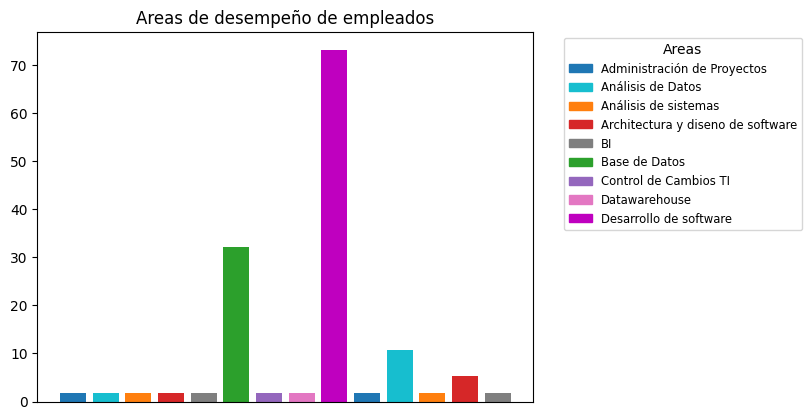
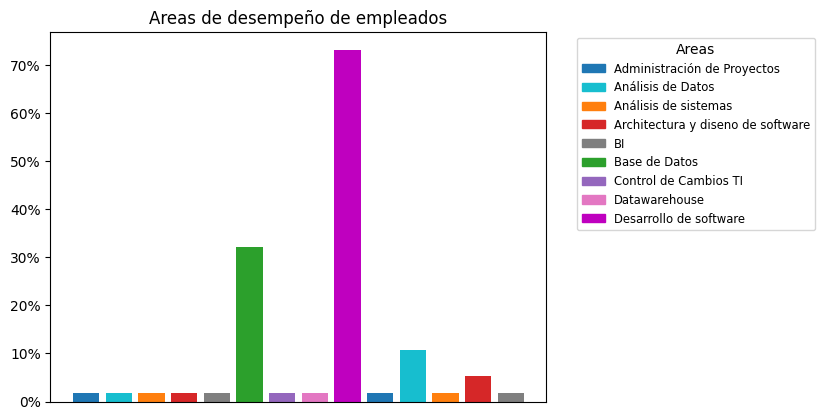
Gestores de bases de datos

diff --git a/make_graphics.py b/make_graphics.py
@@ -83,6 +83,13 @@ operaciones_en_bases = []
 administracion_bases = []
 """
 
+# Habilidades tecnicas necesarias
+habilidades_necesarias = []
+
+
+# Gestores de bases de datos
+gestores_bd = []
+
 # Empleados con certificados
 empleados_crt = []
 certificados = []
@@ -161,6 +168,12 @@ for individuo in empleados_de_bancos:
 
     # Areas de desempeño
     areas_de_desempenio = areas_de_desempenio + individuo["¿En qué área se desempeña o desempeñó en el sector bancario?\xa0\xa0(Puede escoger más de una opción)"].split(";")
+
+    #Habilidades requeridas
+    habilidades_necesarias = habilidades_necesarias + individuo["¿Qué habilidades o requisitos necesitó para comenzar a laborar en una entidad bancaria?\xa0(Puede escoger más de una opción)"].split(";")
+
+    #Gestores de bases de datos
+    gestores_bd = gestores_bd + individuo["Según su experiencia, ¿qué gestores de base de datos debe conocer un ingeniero en sistemas para laborar en una entidad bancaria? (Puede escoger más de una opción)"].split(";")
 
 
 """
@@ -573,6 +586,7 @@ cmap = dict(zip(totales_df['Totales_adq'].tolist(), ['tab:blue', 'tab:cyan', 'ta
 
 patches = [Patch(color=v, label=k) for k, v in cmap.items()]
 
+ax.yaxis.set_major_formatter(mtick.PercentFormatter())
 plt.legend(labels=totales_df['Totales_adq'].tolist(), handles=patches, title='Adquisición', bbox_to_anchor=(1.05, 1), loc='upper left', prop=fontP)
 
 plt.savefig("./fig/totales_adq.png", dpi=None, facecolor='w', edgecolor='w',
@@ -614,6 +628,7 @@ cmap = dict(zip(certificados_df['Certificados'].tolist(), ['tab:blue', 'tab:cyan
 
 patches = [Patch(color=v, label=k) for k, v in cmap.items()]
 
+ax.yaxis.set_major_formatter(mtick.PercentFormatter())
 plt.legend(labels=certificados_df['Certificados'].tolist(), handles=patches, title='Certificados', bbox_to_anchor=(1.05, 1), loc='upper left', prop=fontP)
 
 plt.savefig("./fig/certificados.png", dpi=None, facecolor='w', edgecolor='w',
@@ -655,9 +670,93 @@ cmap = dict(zip(areas_df['Areas'].tolist(), ['tab:blue', 'tab:cyan', 'tab:orange
 
 patches = [Patch(color=v, label=k) for k, v in cmap.items()]
 
+ax.yaxis.set_major_formatter(mtick.PercentFormatter())
 plt.legend(labels=areas_df['Areas'].tolist(), handles=patches, title='Areas', bbox_to_anchor=(1.05, 1), loc='upper left', prop=fontP)
 
 plt.savefig("./fig/areas_de_desempenio.png", dpi=None, facecolor='w', edgecolor='w',
+        orientation='portrait', format=None,
+        transparent=False, bbox_inches='tight', pad_inches=0.1,
+        metadata=None)
+plt.clf()
+
+############ Habilidades necesarias ############
+habilidades_necesarias = np.array(habilidades_necesarias)
+
+habilidades_set, habilidades_count = np.unique(habilidades_necesarias, return_counts=True)
+
+hab_pro = (habilidades_count / len(empleados_de_bancos)) * 100
+
+hab_df = pd.DataFrame({
+    'Habilidades': habilidades_set,
+    'Porcentaje': hab_pro
+    })
+hab_df = hab_df.drop(labels=0, axis=0)
+
+fig, ax = plt.subplots()
+ax.bar('Habilidades', 'Porcentaje', data=hab_df, color=['tab:blue', 'tab:cyan', 'tab:orange', 'tab:red', 'tab:gray', 'tab:green', 'tab:purple', 'tab:pink', 'm', 'tab:olive'])
+
+plt.tick_params(
+    axis='x',        
+    which='both',   
+    bottom=False,  
+    top=False,    
+    labelbottom=False)
+
+plt.title("Habilidades necesarias para trabajar en el sector")
+
+fontP = FontProperties()
+fontP.set_size('small')
+
+cmap = dict(zip(areas_df['Areas'].tolist(), ['tab:blue', 'tab:cyan', 'tab:orange', 'tab:red', 'tab:gray', 'tab:green', 'tab:purple', 'tab:pink', 'm', 'tab:olive']))
+
+patches = [Patch(color=v, label=k) for k, v in cmap.items()]
+
+ax.yaxis.set_major_formatter(mtick.PercentFormatter())
+plt.legend(labels=hab_df['Habilidades'].tolist(), handles=patches, title='Habilidades', bbox_to_anchor=(1.05, 1), loc='upper left', prop=fontP)
+
+plt.savefig("./fig/habilidades_necesarias.png", dpi=None, facecolor='w', edgecolor='w',
+        orientation='portrait', format=None,
+        transparent=False, bbox_inches='tight', pad_inches=0.1,
+        metadata=None)
+plt.clf()
+
+
+############ Gestores de bases de datos usados ############
+gestores_bd = np.array(gestores_bd)
+
+gestores_set, gestores_count = np.unique(gestores_bd, return_counts=True)
+
+gestores_pro = (gestores_count / len(empleados_de_bancos)) * 100
+
+gestores_df = pd.DataFrame({
+    'Gestores': gestores_set,
+    'Porcentaje': gestores_pro
+    })
+gestores_df = gestores_df.drop(labels=0, axis=0)
+
+fig, ax = plt.subplots()
+ax.bar('Gestores', 'Porcentaje', data=gestores_df, color=['tab:blue', 'tab:cyan', 'tab:orange', 'tab:red', 'tab:gray', 'tab:green', 'tab:purple', 'tab:pink', 'm', 'tab:olive'])
+
+plt.tick_params(
+    axis='x',        
+    which='both',   
+    bottom=False,  
+    top=False,    
+    labelbottom=False)
+
+plt.title("Gestores de bases de datos usados en el sector bancario")
+
+fontP = FontProperties()
+fontP.set_size('small')
+
+cmap = dict(zip(gestores_df['Gestores'].tolist(), ['tab:blue', 'tab:cyan', 'tab:orange', 'tab:red', 'tab:gray', 'tab:green', 'tab:purple', 'tab:pink', 'm', 'tab:olive']))
+
+patches = [Patch(color=v, label=k) for k, v in cmap.items()]
+
+ax.yaxis.set_major_formatter(mtick.PercentFormatter())
+plt.legend(labels=gestores_df['Gestores'].tolist(), handles=patches, title='Gestores', bbox_to_anchor=(1.05, 1), loc='upper left', prop=fontP)
+
+plt.savefig("./fig/gestores_bd.png", dpi=None, facecolor='w', edgecolor='w',
         orientation='portrait', format=None,
         transparent=False, bbox_inches='tight', pad_inches=0.1,
         metadata=None)
